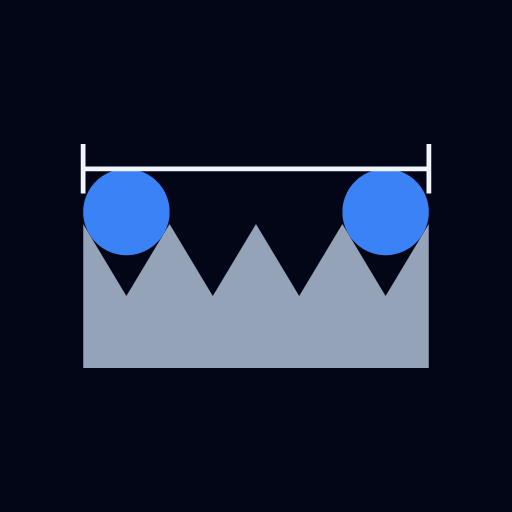
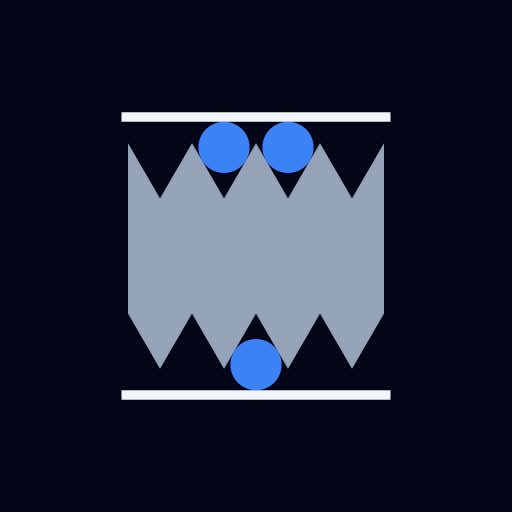
Rename the project to ThreeWire
TwoWire named a different technique. Everything the app says about itself
says three -- the badge in the calculation panel reads 3-wire method, the
README says three-wire throughout, and the guide is built around it -- so
the only things saying two were the name and the artwork. Measuring over
two wires or pins is a real and separate method, which made the old name
point somewhere else rather than merely under-describe.

localStorage is scoped to the origin rather than to the path, so the stored
setup survives the move from /TwoWire/ to /ThreeWire/ and only changes the
key it is filed under. Reading through to the old keys keeps a returning
user's standard, size and units, and keeps the guide from re-opening at
someone who has already read it. The old entries are left in place rather
than deleted, so going back to an earlier build strands nobody.

The icon showed two wires because only two fit the old picture: a single
thread surface with the span across their crowns. It is now the real
arrangement -- a pair in adjacent grooves on one flank, the third in the
groove between them on the other, and the micrometer closing on the crowns
-- derived from five constants on a 60 degree flank, with the core left
thick enough that it reads as a threaded bar. favicon.svg is written from
the same numbers instead of mirrored by hand, which was one transcription
too many.

Changed region(s): [[0.1562, 0.2188, 0.8438, 0.7812]]

diff --git a/src/lib/settingsStorage.js b/src/lib/settingsStorage.js
@@ -1,16 +1,37 @@
 import { isThreadClassId } from './threadLimits'
 import { isUnitSystem } from './units'
 
-export const STORAGE_KEY = 'twowire:settings:v1'
+export const STORAGE_KEY = 'threewire:settings:v1'
 
 export const MODES = ['findE', 'findM']
 
 const DEFAULT_MODE = 'findM'
 const DEFAULT_UNIT_SYSTEM = 'imperial'
 
+// The app was called TwoWire before it was renamed, and localStorage is scoped to the
+// origin rather than to the path, so the rename does not clear anyone's stored setup -- it
+// only changes the key it is filed under. Without this a returning user would silently lose
+// their standard, size and units, and be shown the guide again as though this were a first
+// run. The old entries are left in place rather than deleted: they cost two keys, and
+// removing them would strand anyone who went back to an older build.
+const LEGACY_STORAGE_KEY = 'twowire:settings:v1'
+const LEGACY_GUIDE_KEY = 'twowire:guide-seen:v1'
+
+// Carries the old entry forward on first read, so the fallback is only ever needed once.
+// Everything read this way still goes through the same validation as before.
+function readRenamed(key, legacyKey) {
+  const current = window.localStorage.getItem(key)
+  if (current !== null) return current
+
+  const legacy = window.localStorage.getItem(legacyKey)
+  if (legacy !== null) window.localStorage.setItem(key, legacy)
+
+  return legacy
+}
+
 function readRaw() {
   try {
-    const raw = window.localStorage.getItem(STORAGE_KEY)
+    const raw = readRenamed(STORAGE_KEY, LEGACY_STORAGE_KEY)
     const parsed = raw ? JSON.parse(raw) : null
     return parsed && typeof parsed === 'object' ? parsed : {}
   } catch {
@@ -57,7 +78,7 @@ export function writeSettings(settings) {
 
 // The guide flag lives under its own key rather than inside the settings entry, so bumping
 // the settings schema never re-opens the guide at someone who has already read it.
-export const GUIDE_KEY = 'twowire:guide-seen:v1'
+export const GUIDE_KEY = 'threewire:guide-seen:v1'
 
 /**
  * Whether the guide has been shown before. Storage being unavailable counts as seen: the
@@ -65,7 +86,7 @@ export const GUIDE_KEY = 'twowire:guide-seen:v1'
  */
 export function readGuideSeen() {
   try {
-    return window.localStorage.getItem(GUIDE_KEY) !== null
+    return readRenamed(GUIDE_KEY, LEGACY_GUIDE_KEY) !== null
   } catch {
     return true
   }

diff --git a/src/__tests__/App.spec.js b/src/__tests__/App.spec.js
@@ -3,8 +3,8 @@ import { beforeEach, describe, it, expect } from 'vitest'
 import { mount } from '@vue/test-utils'
 import App from '../App.vue'
 
-const STORAGE_KEY = 'twowire:settings:v1'
-const GUIDE_KEY = 'twowire:guide-seen:v1'
+const STORAGE_KEY = 'threewire:settings:v1'
+const GUIDE_KEY = 'threewire:guide-seen:v1'
 
 // First-run state: Find measure over wires, imperial units, 1/4-20 UNC (1.27 mm pitch, 60 deg).
 function mountApp() {
@@ -627,5 +627,42 @@ describe('App guide', () => {
     setStorage(undefined)
 
     expect(guideIsOpen(mountApp())).toBe(false)
+  })
+})
+
+// The app was called TwoWire until it was renamed. localStorage is scoped to the origin
+// rather than to the path, so those entries survive the rename and have to be honoured:
+// dropping them would reset a returning user's setup and re-open the guide at them.
+describe('App storage from before the rename', () => {
+  const LEGACY_STORAGE_KEY = 'twowire:settings:v1'
+  const LEGACY_GUIDE_KEY = 'twowire:guide-seen:v1'
+
+  it('restores a setup saved under the old key', () => {
+    window.localStorage.setItem(
+      LEGACY_STORAGE_KEY,
+      JSON.stringify({ mode: 'findE', unitSystem: 'metric', classIds: {} }),
+    )
+
+    const wrapper = mountApp()
+
+    expect(wrapper.get('[data-testid="mode-find-e"]').attributes('aria-pressed')).toBe('true')
+    expect(wrapper.get('[data-testid="units-metric"]').attributes('aria-pressed')).toBe('true')
+  })
+
+  it('carries the old entry forward, so it is only needed once', () => {
+    window.localStorage.setItem(
+      LEGACY_STORAGE_KEY,
+      JSON.stringify({ mode: 'findE', unitSystem: 'metric', classIds: {} }),
+    )
+
+    mountApp()
+
+    expect(JSON.parse(window.localStorage.getItem(STORAGE_KEY)).unitSystem).toBe('metric')
+  })
+
+  it('does not re-open the guide for someone who read it before the rename', () => {
+    window.localStorage.setItem(LEGACY_GUIDE_KEY, new Date().toISOString())
+
+    expect(mountApp().find('[data-testid="guide-sheet"]').exists()).toBe(false)
   })
 })

diff --git a/vite.config.js b/vite.config.js
@@ -10,7 +10,7 @@ import { VitePWA } from 'vite-plugin-pwa'
 
 // GitHub Pages serves a project site from a subpath, so every built asset URL has to carry
 // the repository name. The dev server stays at the root.
-const base = process.env.NODE_ENV === 'production' ? '/TwoWire/' : '/'
+const base = process.env.NODE_ENV === 'production' ? '/ThreeWire/' : '/'
 
 const { version } = JSON.parse(readFileSync(new URL('./package.json', import.meta.url), 'utf8'))
 
@@ -51,8 +51,8 @@ export default defineConfig({
       // webmanifest and every icon listed below.
       includeAssets: ['favicon.ico', 'favicon.svg', 'apple-touch-icon.png'],
       manifest: {
-        name: 'TwoWire — Thread Wire Calculator',
-        short_name: 'TwoWire',
+        name: 'ThreeWire — Thread Wire Calculator',
+        short_name: 'ThreeWire',
         description:
           'Three-wire thread calculator: pitch diameter, measurement over wires, and ASME B1.1 or ISO 965 class limits.',
         // Matches the app shell (bg-slate-100) rather than the icon, so the splash screen

diff --git a/src/App.vue b/src/App.vue
@@ -423,8 +423,13 @@ watch(
           data-testid="open-guide"
           @click="openGuide"
         >
-          <span class="flex flex-col gap-1" aria-hidden="true">
-            <span class="block h-3 w-3 rounded-full bg-current"></span>
+          <!-- The three wires as they actually sit: a pair in adjacent grooves on one side,
+               the third in the groove between them on the other. -->
+          <span class="flex flex-col items-center gap-1" aria-hidden="true">
+            <span class="flex gap-1">
+              <span class="block h-3 w-3 rounded-full bg-current"></span>
+              <span class="block h-3 w-3 rounded-full bg-current"></span>
+            </span>
             <span class="block h-3 w-3 rounded-full border-2 border-current"></span>
           </span>
           <span class="text-sm font-bold">Guide</span>

diff --git a/index.html b/index.html
@@ -3,7 +3,7 @@
   <head>
     <meta charset="UTF-8">
     <meta name="viewport" content="width=device-width, initial-scale=1.0, viewport-fit=cover">
-    <title>TwoWire — Thread Wire Calculator</title>
+    <title>ThreeWire — Thread Wire Calculator</title>
     <meta name="description" content="Three-wire thread calculator: pitch diameter, measurement over wires, and ASME B1.1 or ISO 965 class limits.">
 
     <link rel="icon" href="/favicon.ico" sizes="32x32">
@@ -13,7 +13,7 @@
     <meta name="theme-color" content="#f1f5f9">
     <meta name="apple-mobile-web-app-capable" content="yes">
     <meta name="apple-mobile-web-app-status-bar-style" content="default">
-    <meta name="apple-mobile-web-app-title" content="TwoWire">
+    <meta name="apple-mobile-web-app-title" content="ThreeWire">
   </head>
   <body>
     <div id="app"></div>

diff --git a/README.md b/README.md
@@ -239,12 +239,14 @@ report.
 
 Pushing to `main` runs `.github/workflows/deploy.yml`, which tests, builds, and publishes
 `dist` to GitHub Pages. The site is served from a project subpath, so `vite.config.js` sets
-`base` to `/TwoWire/` for production builds; renaming the repository means changing that
+`base` to `/ThreeWire/` for production builds; renaming the repository means changing that
 value.
 
 The app icons are drawn from geometry rather than checked in as binaries from a design
-tool. To change the icon, edit the shapes in `scripts/generate-icons.mjs` (and mirror them
-in `public/favicon.svg`), then regenerate:
+tool. To change the icon, edit the constants at the top of `scripts/generate-icons.mjs` --
+pitch, flank run, depth, wire radius and the two crest lines -- and every point of the
+drawing follows from them. The script writes the PNGs and `public/favicon.svg` from the same
+numbers, so the vector copy cannot drift from the raster ones:
 
 ```bash
 npm run generate:icons
@@ -302,7 +304,7 @@ Run the unit tests:
 npm run test:unit -- --run
 ```
 
-Preview the production build. Note that it is served from the `/TwoWire/` subpath, matching
+Preview the production build. Note that it is served from the `/ThreeWire/` subpath, matching
 GitHub Pages:
 
 ```bash
